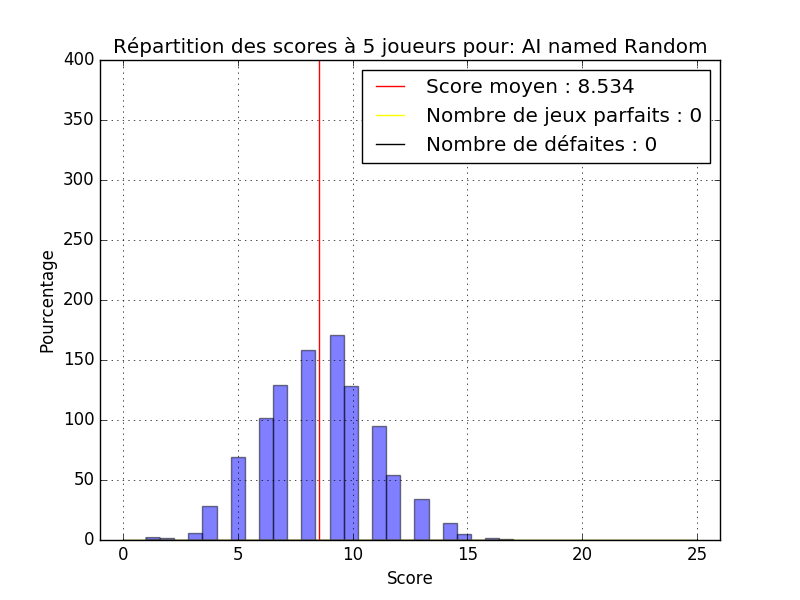
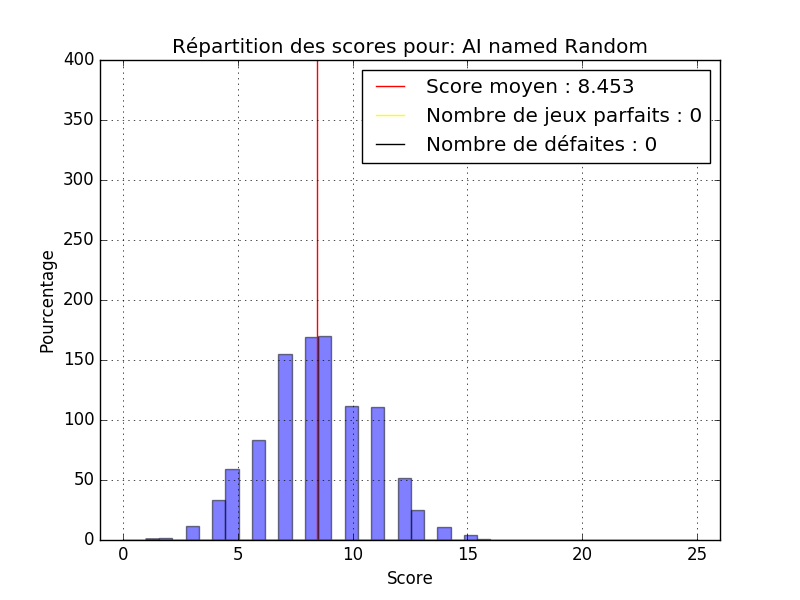
some changes

Changed region(s): [[0.2188, 0.12, 0.625, 0.9], [0.125, 0.06, 0.875, 0.09], [0.75, 0.12, 0.8125, 0.15]]

diff --git a/src/hanabi/ai.py b/src/hanabi/ai.py
@@ -7,8 +7,8 @@ import hanabi
 import itertools
 
 ### à décommenter pour l'affichage des stats
-"""def print(*args, **kwargs):
-    pass"""
+def print(*args, **kwargs):
+    pass
 ###
 
 class AI:
@@ -231,8 +231,8 @@ class Random(AI):
 
             #if you can't play or discard
             if not unclued:
-                number_card = random.randint(1,4)
-                random_card = game.current_hand.cards[number_card-1] 
+                number_card = random.randint(1,len(game.hands[1].cards))
+                random_card = game.hands[1].cards[number_card-1] 
                 piece = random.randint(1,2)
                 if piece == 1 :
                     clue = "c%d"%random_card.number
@@ -245,19 +245,21 @@ class Random(AI):
                 number_card = random.randint(1,num_unclued)
                 random_card = unclued[number_card-1] 
                 
-
+                i=1
+                while random_card not in game.hands[i].cards :
+                    i+=1
                 if random_card.color_clue :         #si on a déjà l'indice de couleur c'est qu'il manque l'indice de nombre
-                    clue = "c%d"%random_card.number
+                    clue = "c%d%d"%(random_card.number,i)
                 elif random_card.number_clue :      #si on a déjà l'indice de nombre c'est qu'il manque l'indice de couleur
                     clue = "c%s"%random_card.color
-                    clue = clue[:2]
+                    clue = clue[:2]+'%d'%i
                 else :                              #sinon on tire au hasard si on va donner l'indice de couleur ou de nombre puisqu'aucun n'est connu
                     piece = random.randint(1,2)
                     if piece == 1 :
-                        clue = "c%d"%random_card.number
+                        clue = "c%d%d"%(random_card.number,i)
                     else :
                         clue = "c%s"%random_card.color
-                        clue = clue[:2]
+                        clue = clue[:2]+'%d'%i
             print("Random would clue: ", clue)
 
             return clue

diff --git a/test/compare_ai.py b/test/compare_ai.py
@@ -85,9 +85,9 @@ def affichage_alone (scores, stat, ai): #stat = liste de longueur 5
     plt.plot([0,25],[stat[3], stat[3]], color = 'yellow', label = "Nombre de jeux parfaits : %s"%stat[3])
     plt.plot([0,25],[stat[4], stat[4]], color = 'black', label = "Nombre de défaites : %s"%stat[4])
     plt.xlabel('Score')
-    plt.ylabel('Pourcentage')
+    plt.ylabel('Nombre de parties')
     plt.title(titre)
-    plt.axis([-1, 26, 0, 400])
+    plt.axis([-1, 26, 0, 500])
     plt.grid(True)
 
     plt.legend()
@@ -107,9 +107,9 @@ def affichage_general (list_of_scores, stats):
     for i in range(len(stats)):
         plt.axvline(x=stats[i][2], label = "Score moyen", color = couleurs[i])
     plt.xlabel('Score')
-    plt.ylabel('Pourcentage')
+    plt.ylabel('Nombre de parties')
     plt.title("Histogramme Comparatif")
-    plt.axis([0, 25, 0, 400])
+    plt.axis([0, 25, 0, 500])
     plt.grid(True)
 
     plt.show()

diff --git a/test/script_comparison.py b/test/script_comparison.py
@@ -17,5 +17,5 @@ nb_parties = 1000 #idem si jamais
 a,b = c.compare([ai1, ai2, ai3], nb_parties, nb_players)
 c.affichage_alone(b[0], a[0], "AI named Recom")
 c.affichage_alone(b[1], a[1], "AI named Random")
-c.affichage_alone(b[1], a[1], "AI named Cheater")
+c.affichage_alone(b[2], a[2], "AI named Cheater")
 c.affichage_general(b,a)

diff --git a/rapport/Report.md b/rapport/Report.md
@@ -1,9 +1,9 @@
 # Projet IN104 : Intelligence artificielle pour le jeu Hanabi
 
-Ce projet à visée pédagogique avait pour buts l'acquisition de compétences en programmation et en gestion de projet:
+Ce projet à visée pédagogique avait pour but l'acquisition de compétences en programmation et en gestion de projet:
 * programmation orientée objet en Python
 * prise en main d'un module préconçu par un autre programmeur
-* extension de ce module et construction d'intelligence artificielle
+* extension de ce module et construction d'intelligences artificielles
 * sensibilisation à la maintenabilité d'un code et à l'élaboration progressive de tests unitaires en cas de bugs
 * initialisation à GitHub et ses fonctionnalités
 * sensibilisation à l'utilisation de la syntaxe Markdown
@@ -16,9 +16,12 @@ L'enjeu de ce projet a d'abord été de comprendre comment fonctionne Git, ce qu
 
 ## Méthode de développement par tests et module hanabi
 
-Nous avons été sensibilisées dans un deuxième temps à l'utilisation de tests pour le debug, notamment en écrivant chacun des tests pour le module deck.
+Nous avons été sensibilisées dans un deuxième temps à l'utilisation de tests pour le debug, notamment en écrivant des tests pour le module deck.
+
 Cette phase de test a permis de comprendre plusieurs choses. D'une part, nous avons compris un peu mieux ce que le module hanabi faisait et d'autre part nous avons pu relever quelques bugs et autres entorses aux règles du jeu. 
+
 De plus, cette phase de tests nous a fait comprendre qu'il était délicat d'écrire des tests sur un programme déjà écrit, qui plus est sur un module que nous venions à peine de prendre en main. Cela a mis en évidence l'intérêt de faire les tests en même temps que l'écriture du code, car l'écriture des tests sur un module qu'on vient à peine de découvrir se résume surtout à des tests "à la main", suivi du debugging au fur et à mesure, ce que l'écriture synchrone du code et des tests permet de systématiser. D'autre part, les tests permettent à chaque modification de voir si en résolvant un problème un autre n'a pas été créé.
+
 Cependant, en pratique, il est difficile de prévoir tous les tests à effectuer et c’est en lançant le programme qu’on se rend compte de certains problèmes et qu’on peut écrire les tests correspondants. 
 
 ## Ce que nous avons accompli pour ce projet
@@ -38,11 +41,11 @@ Ces cinq informations nous permettent de classer les IA entre elles et surtout d
 
 *Exemple 1 : Cheater réalise un score parfait 86.4% du temps et a un score moyen égal à 24,7. Nous pouvons donc nous demander pourquoi un tricheur ne peux pas s'assurer un score parfait systématiquement.* 
 
-![Image](2_joueurs_Cheater.png "Performances de l'IA Cheater pour 2 joueurs")
+![Image](5_joueur_Cheater.png "Performances de l'IA Cheater pour 5 joueurs")
 
 *Exemple 2 : Doit-on préférer une IA ayant un bon score moyen mais qui échoue souvent à une IA ayant un socre moyen plus faible mais qui n'échoue jamais?*
 
-### Remarques sur l'IA tricheuse Cheater
+#### Remarques sur l'IA tricheuse Cheater
 
 L'IA Cheater, bien qu'elle obtienne des résultats assez impressionnants, n'obtient pas 100% de réussite. En effet, parfois la configuration du jeu fait que parfois, le joueur est obligé de se débarasser d'une carte indispensable, par exemple un 5, car il n'a pas d'autre possibilité. Le jeu ne peut donc plus être parfait.
 
@@ -50,21 +53,21 @@ L'IA Cheater, bien qu'elle obtienne des résultats assez impressionnants, n'obti
 
 Le but de cette partie était essentiellement de prendre en main le module de jeu hanabi. Tout l'intérêt d'une IA aléatoire repose bien entendu sur l'*absence de stratégie* à implémenter : notre travail s'est ainsi concentré sur la **syntaxe** particulière qu'impliquait le module hanabi et sur l'écriture de **tests unitaires** nous permettant de vérifier le bon fonctionnement de notre IA.
 
-Ainsi, nous avons commencé par lui faire choisir une action au hasard parmi "play", "discard" et "clue", puis un autre choix aléatoire s'effectuait pour déterminer la carte à jouer, défausser ou sur laquelle donner un indice.
-A ce stade de la conception, le reste du groupe commentait les possibilités qui s'offraient à nous pour pouvoir jouer à **plus de deux joueurs**. C'est pourquoi la phase de choix pour l'action "clue" s'est trouvée compliquée.
-Très rapidement, nous nous sommes rendues compte des exigences imposées par le module, qui pouvaient différer les règles du jeu hanabi à proprement parler. 
+Ainsi, nous avons commencé par lui faire choisir une action au hasard parmi "play", "discard" et "clue", puis un autre choix aléatoire s'effectuait pour déterminer la carte à jouer, défausser ou sur laquelle donner un indice. 
+
+Très rapidement, nous nous sommes rendues compte des exigences imposées par le module, qui pouvaient différer des règles du jeu hanabi à proprement parler : en effet, le module permet par exemple de donner un indice inexistant dans la main du joueur.
 
 *Exemple : le module interdit à un joueur de se défausser d'une carte si l'équipe possède déjà 8 jetons bleus. Même si cette action n'est pas recommandée, elle n'est pas formellement interdite par les règles du jeu*
 
-Nous avons donc fait évoluer cette IA afin qu'elle joue plutôt comme un humain simple d'esprit : elle connait les règles du jeu telles qu'implémentées dans le module et n'effectue pas une action qui ferait échouer la partie. Elle joue en priorité une carte si elle sait que celle-ci est correcte. Sinon, elle joue aléatoirement une carte parmi celle dont elle ne connaît rien (mais évite de jouer une carte dont elle sait qu'elle va faire échouer la partie), donne un indice aléatoire parmi les indices que l'autre joueur ne connaît pas encore, ou bien se défausse d'une carte de manière aléatoire. Ces actions ne prennent en compte aucune stratégie, excepté celle qui évite de faire échouer la partie.
+Nous avons ensuite fait évoluer cette IA afin qu'elle joue plutôt comme un humain simple d'esprit : elle connait les règles du jeu telles qu'implémentées dans le module et n'effectue pas une action qui ferait échouer la partie. Elle joue en priorité une carte si elle sait que celle-ci est correcte. Sinon, elle joue aléatoirement une carte parmi celle dont elle ne connaît rien (mais évite de jouer une carte dont elle sait qu'elle va faire échouer la partie), donne un indice aléatoire parmi les indices que les autres joueurs ne connaît pas encore, ou bien se défausse d'une carte de manière aléatoire. 
 
 Nous pouvons résumer ses perfomances par le graphique suivant (comparées avec les performances de l'AI Cheater):
 
-![Image](4_joueurs_Random.png "performances de notre IA Random pour 4 joueurs") ![Image](Comp_Random_Cheater_2joueurs.png "Comparaison avec les performances de l'IA Cheater")
+![Image](5_joueurs_Random.png "performances de notre IA Random pour 5 joueurs") ![Image](Comp_Random_Cheater.png "Comparaison avec les performances de l'IA Cheater")
 
-*Les stats sont données pour 4 joueurs mais ce graphique est similaire pour n'importe quel nombre de joueurs.*
+*Les stats sont données pour 5 joueurs mais ce graphique est similaire pour n'importe quel nombre de joueurs.*
 
-Finalement cette IA oscille entre des performances médiocres et honorables, un peu comme un humain qui viendrait de découvrir le jeu et qui pourtant réfléchit : finalement l'aléatoire est parfois aussi efficace que la réflexion lorsque celle-ci est mal menée.
+Finalement cette IA oscille entre des performances médiocres et honorables, et **elle a le mérite de ne jamais faire échouer la partie**, un peu comme un humain qui viendrait de découvrir le jeu et qui pourtant réfléchit : finalement l'aléatoire est parfois aussi efficace que la réflexion lorsque celle-ci est mal menée.
 
 ### Conception d'une IA utilisant la stratégie de recommandation Recom
 La stratégie utilisée par cette IA est décrite dans le document suivant: [HanSim : the Hat Guessing Strategy](https://sites.google.com/site/rmgpgrwc/research-papers/Hanabi_final.pdf?attredirects=1)
@@ -72,7 +75,7 @@ La stratégie utilisée par cette IA est décrite dans le document suivant: [Han
 (stratégie à 5 joueurs donc 4 cartes dans chaque main)
 * Chaque indice correspond à une action : 
 
-    0. jouer carte 1 // indice de rang sur la carte 1
+    - 0. jouer carte 1 // indice de rang sur la carte 1
     1. jouer carte 2 // indice de rang sur la carte 2
     2. jouer carte 3 // indice de rang sur la carte 3
     3. jouer carte 4 // indice de rang sur la carte 4
@@ -120,7 +123,7 @@ Nous avons donc dû prendre du recul par rapport à notre IA pour comprendre ce 
 
 **Deuxième phase de conception**
 
-La première IA ne suivait pas exactement la stratégie décrite par the Hat Guessing Game : en effet, la relation entre les indices et les actions à faire dépendait entièrement de l'indice et non de la position de la carte sur laquelle on donnait l'indice **(ce qui n'est pas possible dans la vraie à moins que tous les joueurs ne jouent en connaissant la correspondance entre chaque indice et les actions, ce qui est équivalent à directement communiquer l'action à faire).**
+La première IA ne suivait pas exactement la stratégie décrite par the Hat Guessing Game : en effet, la relation entre les indices et les actions à faire dépendait entièrement de l'indice et non de la position de la carte sur laquelle on donnait l'indice (ce qui n'est pas possible dans la vraie vie à moins que tous les joueurs ne jouent en connaissant la correspondance entre chaque indice et les actions, ce qui est équivalent à directement communiquer l'action à faire).
 Il manquait de plus quelques fonctions d'interprétation des indices et certaines boucles présentaient des bug qui ont été corrigés dans cette deuxième version.
 
 Cependant, même en faisant ces améliorations, on se rend compte que la fonction play du module AI, ne garde pas du tout en mémoire la configuration du jeu lorsque l'on donne l'indice. En effet, pour que l'indice soit valable, il faut le calculer au moment où il a été donné. Or, lorsque c'est le tour d'un joueur, la configuration de la partie a déjà changé, il ne peut plus calculer sa propre action, puisqu'il faut pour cela calculer les actions optimales des autres joueurs, actions qui ont peut-être changé, s'ils ont eux-même joué ou s'ils ont défaussé leurs cartes. 
